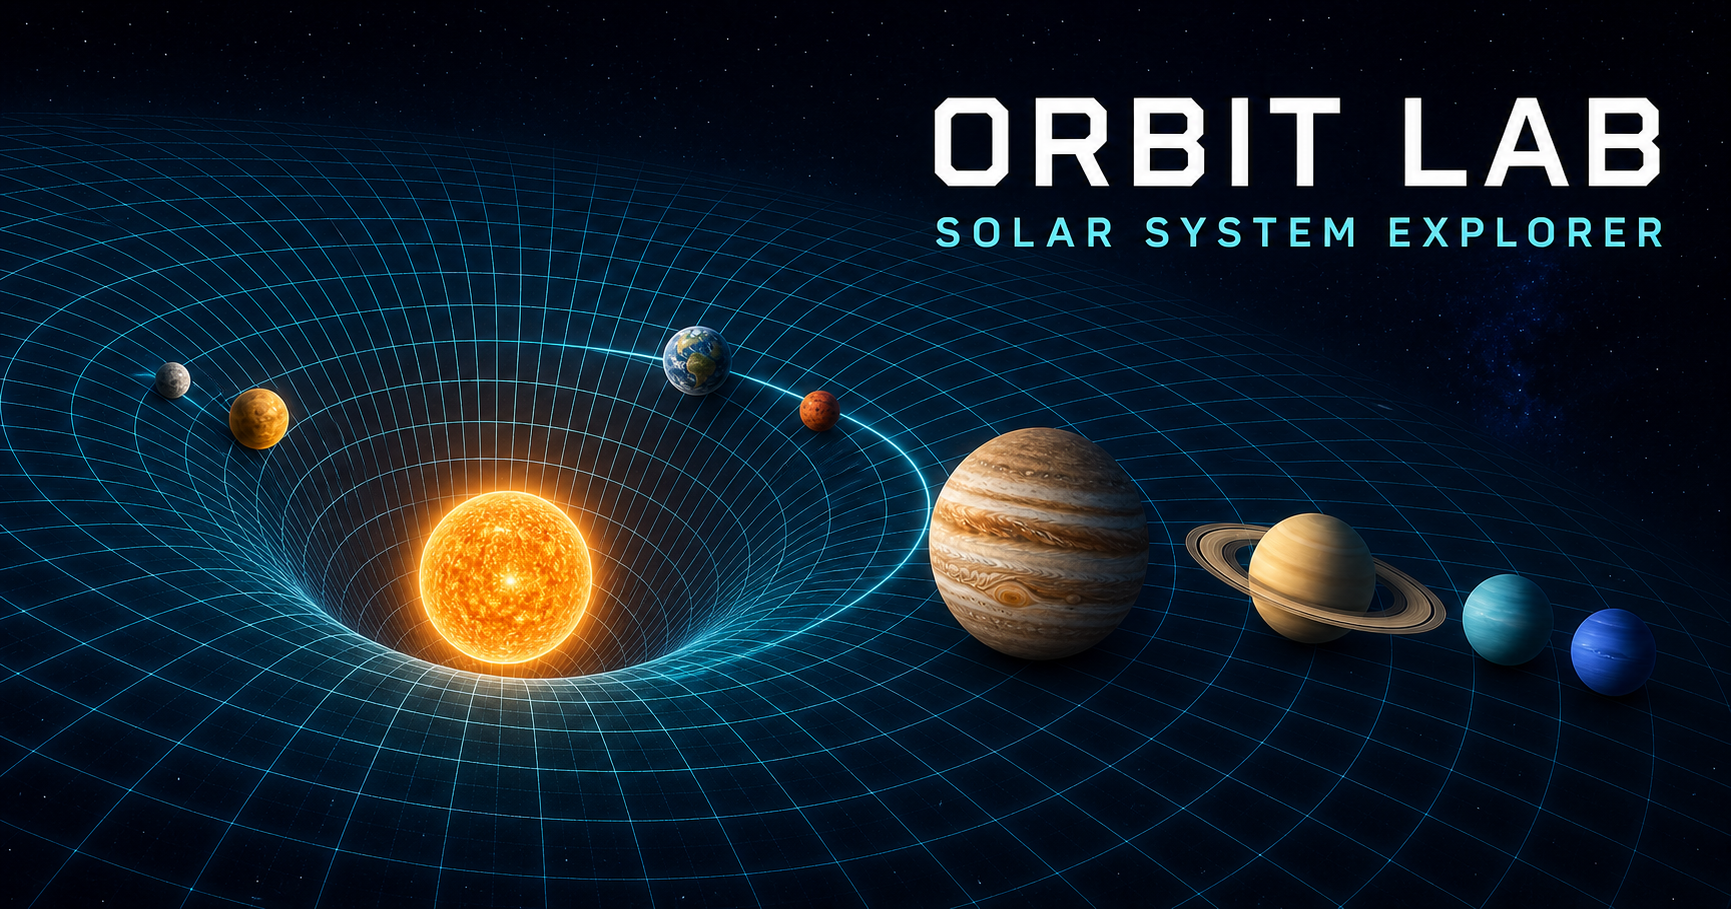
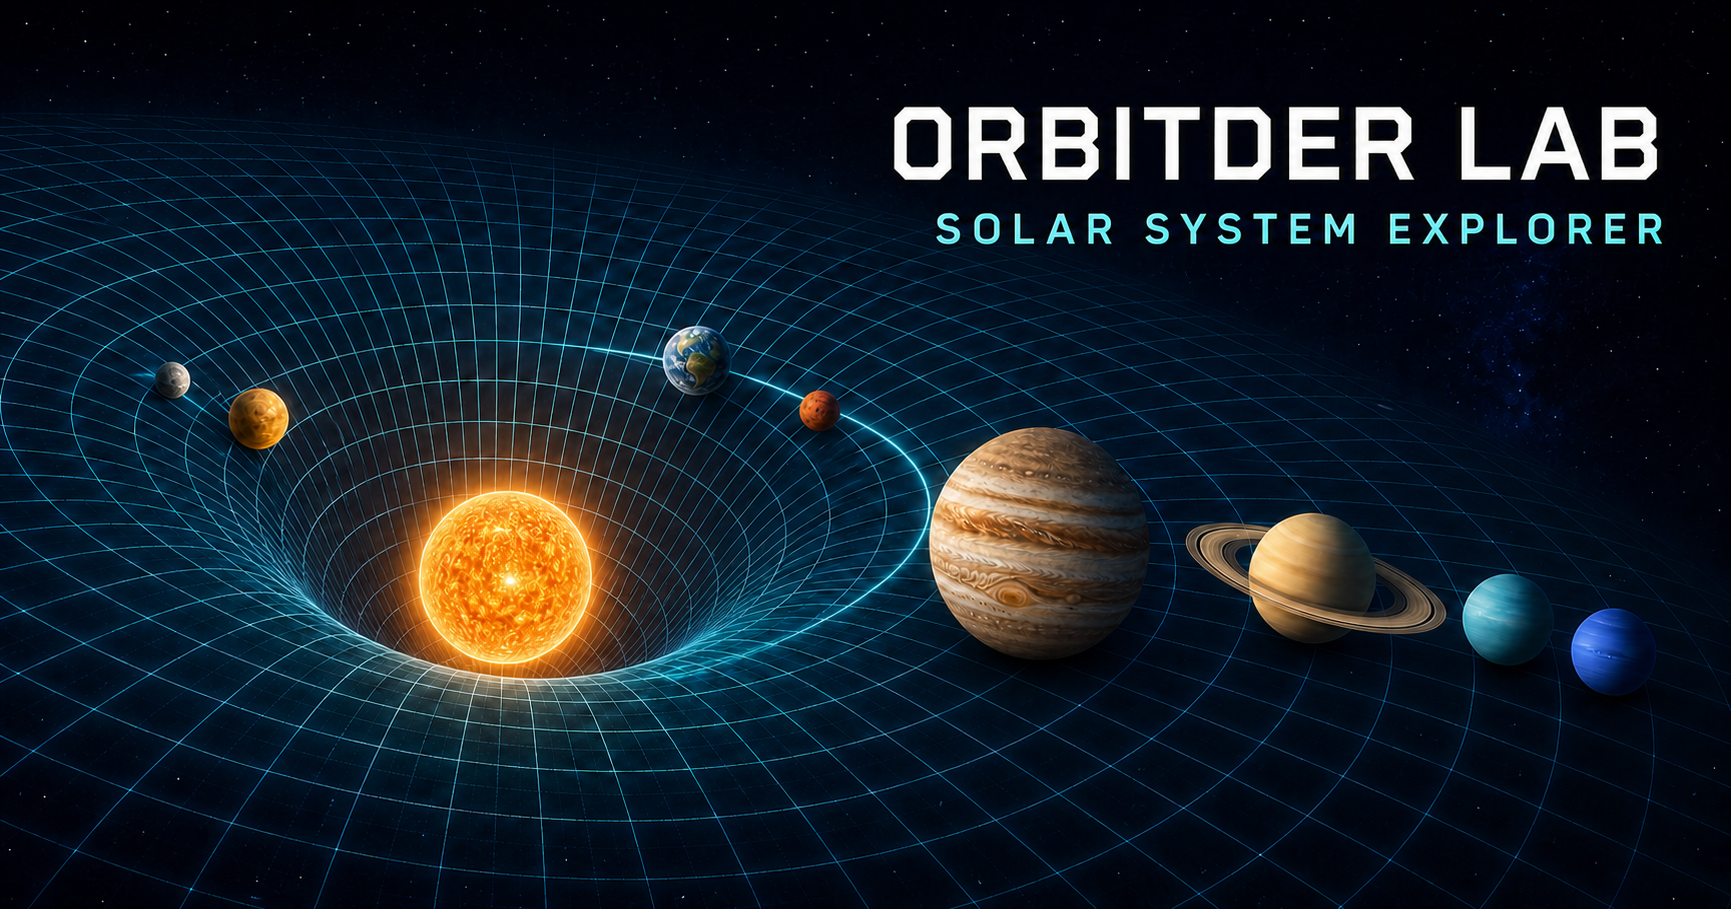
Rename Orbitder Lab and revise time scales

diff --git a/app/SolarSystem.tsx b/app/SolarSystem.tsx
@@ -213,6 +213,19 @@ const PLANETS: Planet[] = [
 
 const STAR_NAMES = ["ORION", "SIRIUS", "POLARIS", "BETELGEUSE"];
 
+const TIME_SCALES = [
+  { days: 1, label: "1 วัน/f", description: "1 วันต่อเฟรมเวลา" },
+  { days: 7, label: "1 สัปดาห์/f", description: "1 สัปดาห์ต่อเฟรมเวลา" },
+  { days: 365, label: "1 ปี/f", description: "1 ปีต่อเฟรมเวลา" },
+  { days: 3650, label: "10 ปี/f", description: "10 ปีต่อเฟรมเวลา" },
+  { days: 36500, label: "100 ปี/f", description: "100 ปีต่อเฟรมเวลา" },
+  {
+    days: 365000,
+    label: "1,000 ปี/f",
+    description: "1,000 ปีต่อเฟรมเวลา",
+  },
+] as const;
+
 const FEATURED_MOONS: Record<string, MoonFact[]> = {
   earth: [
     {
@@ -993,7 +1006,7 @@ export default function SolarSystem() {
   } | null>(null);
   const selectedRef = useRef("earth");
   const pausedRef = useRef(false);
-  const speedRef = useRef(1);
+  const daysPerFrameRef = useRef(1);
   const gravityRef = useRef(false);
   const orbitRef = useRef(true);
   const distanceModeRef = useRef<DistanceMode>("compact");
@@ -1003,7 +1016,7 @@ export default function SolarSystem() {
   const [selected, setSelected] = useState("earth");
   const [mode, setMode] = useState<ViewMode>("explore");
   const [paused, setPaused] = useState(false);
-  const [speed, setSpeed] = useState(1);
+  const [daysPerFrame, setDaysPerFrame] = useState(1);
   const [showOrbits, setShowOrbits] = useState(true);
   const [showGravity, setShowGravity] = useState(false);
   const [labels, setLabels] = useState(true);
@@ -1037,8 +1050,8 @@ export default function SolarSystem() {
   }, [paused]);
 
   useEffect(() => {
-    speedRef.current = speed;
-  }, [speed]);
+    daysPerFrameRef.current = daysPerFrame;
+  }, [daysPerFrame]);
 
   useEffect(() => {
     gravityRef.current = showGravity;
@@ -1623,7 +1636,8 @@ export default function SolarSystem() {
     const animate = () => {
       frame = requestAnimationFrame(animate);
       const dt = Math.min(clock.getDelta(), 0.05);
-      if (!pausedRef.current) elapsedDays += dt * 32 * speedRef.current;
+      // A "time frame" advances once per real second, independent of display Hz.
+      if (!pausedRef.current) elapsedDays += dt * daysPerFrameRef.current;
       gravityMix = THREE.MathUtils.lerp(
         gravityMix,
         gravityRef.current ? 1 : 0,
@@ -1824,8 +1838,8 @@ export default function SolarSystem() {
             <span className="brand-orbit two" />
           </span>
           <span>
-            <strong>ORBIT LAB</strong>
-            <small>ห้องทดลองระบบสุริยะ</small>
+            <strong>ORBITDER LAB</strong>
+            <small>ออบิดเด้อ แลป • ห้องทดลองระบบสุริยะ</small>
           </span>
         </button>
 
@@ -2250,15 +2264,17 @@ export default function SolarSystem() {
           <span className="timeline-knob" style={{ left: `${(simDays % 365) / 3.65}%` }} />
         </div>
         <div className="speed-control">
-          <span>ความเร็ว</span>
-          {[0.5, 1, 5, 20].map((value) => (
+          <span>เฟรมเวลา</span>
+          {TIME_SCALES.map((scale) => (
             <button
               type="button"
-              key={value}
-              className={speed === value ? "active" : ""}
-              onClick={() => setSpeed(value)}
+              key={scale.days}
+              className={daysPerFrame === scale.days ? "active" : ""}
+              onClick={() => setDaysPerFrame(scale.days)}
+              aria-label={scale.description}
+              title={scale.description}
             >
-              {value}×
+              {scale.label}
             </button>
           ))}
         </div>

diff --git a/app/globals.css b/app/globals.css
@@ -1100,7 +1100,7 @@ button:focus-visible {
   position: relative;
   z-index: 30;
   display: grid;
-  grid-template-columns: 42px 110px minmax(180px, 1fr) auto 180px;
+  grid-template-columns: 42px 110px minmax(140px, 1fr) auto 150px;
   align-items: center;
   gap: 14px;
   padding: 0 28px;
@@ -1175,6 +1175,7 @@ button:focus-visible {
   display: flex;
   align-items: center;
   gap: 4px;
+  white-space: nowrap;
 }
 
 .speed-control > span {
@@ -1182,9 +1183,9 @@ button:focus-visible {
 }
 
 .speed-control button {
-  min-width: 34px;
+  min-width: 48px;
   height: 28px;
-  padding: 0 7px;
+  padding: 0 8px;
   border: 1px solid rgba(110, 153, 192, 0.12);
   border-radius: 6px;
   color: #61758d;
@@ -1198,6 +1199,7 @@ button:focus-visible {
   border-color: rgba(91, 206, 251, 0.34);
   color: #bdefff;
   background: rgba(42, 135, 182, 0.24);
+  box-shadow: 0 0 12px rgba(66, 184, 234, 0.1);
 }
 
 .star-coordinates {
@@ -1256,7 +1258,23 @@ button:focus-visible {
   }
 
   .simulation-bar {
-    grid-template-columns: 42px 105px minmax(160px, 1fr) auto;
+    grid-template-columns: 42px 105px minmax(100px, 1fr) auto;
+    gap: 9px;
+    padding-inline: 18px;
+  }
+
+  .speed-control {
+    gap: 3px;
+  }
+
+  .speed-control > span {
+    margin-right: 2px;
+  }
+
+  .speed-control button {
+    min-width: 42px;
+    padding-inline: 5px;
+    font-size: 8px;
   }
 }
 

diff --git a/index.html b/index.html
@@ -8,7 +8,10 @@
       content="เว็บจำลองระบบสุริยะ 3 มิติสำหรับนักสำรวจอวกาศรุ่นเยาว์"
     />
     <meta name="theme-color" content="#040914" />
-    <meta property="og:title" content="Orbit Lab — ห้องทดลองระบบสุริยะ" />
+    <meta
+      property="og:title"
+      content="Orbitder Lab (ออบิดเด้อ แลป) — ห้องทดลองระบบสุริยะ"
+    />
     <meta
       property="og:description"
       content="สำรวจวงโคจร ปริภูมิ–เวลา และดวงจันทร์ 422 ดวงในระบบสุริยะ 3 มิติ"
@@ -17,8 +20,8 @@
       property="og:image"
       content="https://netzpj-max.github.io/Obitder/og-spacetime.png"
     />
-    <link rel="icon" href="/favicon.svg" />
-    <title>Orbit Lab — ห้องทดลองระบบสุริยะ</title>
+    <link rel="icon" href="./favicon.svg" />
+    <title>Orbitder Lab (ออบิดเด้อ แลป) — ห้องทดลองระบบสุริยะ</title>
   </head>
   <body>
     <div id="root"></div>

diff --git a/app/layout.tsx b/app/layout.tsx
@@ -12,7 +12,7 @@ export async function generateMetadata(): Promise<Metadata> {
     incomingHeaders.get("x-forwarded-proto") ??
     (host.startsWith("localhost") ? "http" : "https");
   const baseUrl = new URL(`${protocol}://${host}`);
-  const title = "Orbit Lab — ห้องทดลองระบบสุริยะ";
+  const title = "Orbitder Lab (ออบิดเด้อ แลป) — ห้องทดลองระบบสุริยะ";
   const description =
     "เว็บจำลองระบบสุริยะ 3 มิติสำหรับนักสำรวจอวกาศรุ่นเยาว์";
 
@@ -33,7 +33,7 @@ export async function generateMetadata(): Promise<Metadata> {
           url: new URL("/og-spacetime.png", baseUrl).toString(),
           width: 1792,
           height: 909,
-          alt: "Orbit Lab — แบบจำลองระบบสุริยะ 3 มิติ",
+          alt: "Orbitder Lab — แบบจำลองระบบสุริยะ 3 มิติ",
         },
       ],
     },

diff --git a/app/page.tsx b/app/page.tsx
@@ -2,7 +2,7 @@ import type { Metadata } from "next";
 import SolarSystem from "./SolarSystem";
 
 export const metadata: Metadata = {
-  title: "Orbit Lab — ห้องทดลองระบบสุริยะ",
+  title: "Orbitder Lab (ออบิดเด้อ แลป) — ห้องทดลองระบบสุริยะ",
   description:
     "สำรวจวงโคจร แรงโน้มถ่วง และเรื่องน่ารู้ของดาวเคราะห์ทั้ง 8 ดวงในแบบจำลอง 3 มิติ",
 };

diff --git a/src/pages-main.tsx b/src/pages-main.tsx
@@ -5,7 +5,7 @@ import "../app/globals.css";
 const root = document.getElementById("root");
 
 if (!root) {
-  throw new Error("Orbit Lab root element was not found.");
+  throw new Error("Orbitder Lab root element was not found.");
 }
 
 createRoot(root).render(<SolarSystem />);
